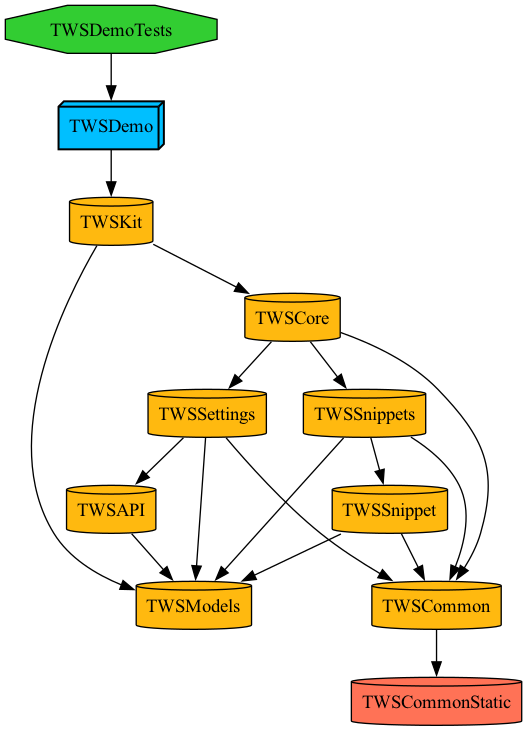
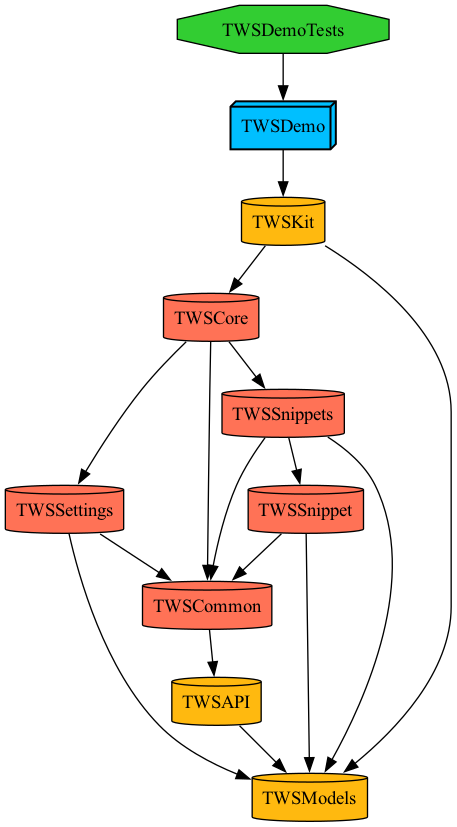
Cache snippets information (without httml content for now); Fixed an issue with Tuis (switchet to static dependncies for now); Updated linter;

diff --git a/Project.swift b/Project.swift
@@ -81,7 +81,7 @@ let project = Project(
         .target(
             name: "TWSCore",
             destinations: .iOS,
-            product: .framework,
+            product: .staticFramework,
             bundleId: "com.inova.twscore",
             deploymentTargets: .iOS(deploymentTarget()),
             sources: ["TWSCore/Sources/**"],
@@ -101,7 +101,7 @@ let project = Project(
         .target(
             name: "TWSSnippets",
             destinations: .iOS,
-            product: .framework,
+            product: .staticFramework,
             bundleId: "com.inova.twssnippets",
             deploymentTargets: .iOS(deploymentTarget()),
             sources: ["TWSSnippets/Sources/**"],
@@ -121,7 +121,7 @@ let project = Project(
         .target(
             name: "TWSSnippet",
             destinations: .iOS,
-            product: .framework,
+            product: .staticFramework,
             bundleId: "com.inova.twssnippet",
             deploymentTargets: .iOS(deploymentTarget()),
             sources: ["TWSSnippet/Sources/**"],
@@ -140,14 +140,13 @@ let project = Project(
         .target(
             name: "TWSSettings",
             destinations: .iOS,
-            product: .framework,
+            product: .staticFramework,
             bundleId: "com.inova.twssettings",
             deploymentTargets: .iOS(deploymentTarget()),
             sources: ["TWSSettings/Sources/**"],
             dependencies: [
                 .target(name: "TWSCommon"),
-                .target(name: "TWSModels"),
-                .target(name: "TWSAPI")
+                .target(name: "TWSModels")
             ],
             settings: .settings(
                 configurations: [
@@ -195,30 +194,13 @@ let project = Project(
         .target(
             name: "TWSCommon",
             destinations: .iOS,
-            product: .framework,
+            product: .staticFramework,
             bundleId: "com.inova.twscommon",
             deploymentTargets: .iOS(deploymentTarget()),
             sources: ["TWSCommon/Sources/**"],
             dependencies: [
-                .target(name: "TWSCommonStatic")
-            ],
-            settings: .settings(
-                configurations: [
-                    .debug(name: "Debug"),
-                    .release(name: "Staging"),
-                    .release(name: "Release")
-                ]
-            )
-        ),
-        .target(
-            name: "TWSCommonStatic",
-            destinations: .iOS,
-            product: .staticFramework,
-            bundleId: "com.inova.twscommonstatic",
-            deploymentTargets: .iOS(deploymentTarget()),
-            sources: ["TWSCommonStatic/Sources/**"],
-            dependencies: [
-                .external(name: "ComposableArchitecture")
+                .external(name: "ComposableArchitecture"),
+                .target(name: "TWSAPI")
             ],
             settings: .settings(
                 configurations: [

diff --git a/TWSKit/Sources/TWSFactory.swift b/TWSKit/Sources/TWSFactory.swift
@@ -11,17 +11,23 @@ import TWSModels
 @_implementationOnly import TWSCore
 @_implementationOnly import TWSSettings
 @_implementationOnly import TWSSnippets
+@_implementationOnly import TWSCommon
 @_implementationOnly import ComposableArchitecture
 
 public class TWSFactory {
 
     public class func new() -> TWSManager {
         let stream = AsyncStream<[TWSSnippet]>.makeStream()
+        let state = TWSCoreFeature.State(
+            settings: .init(),
+            snippets: .init()
+        )
+
+        let storage = state.snippets.snippets.map(\.snippet)
+        print("-> (\(storage.count)) items loaded from disk.", Date())
+
         let store = Store(
-            initialState: TWSCoreFeature.State(
-                settings: .init(),
-                snippets: .init(snippets: [])
-            ),
+            initialState: state,
             reducer: {
                 TWSCoreFeature()
                     .onChange(of: \.snippets.snippets) { _, newValue in
@@ -32,6 +38,8 @@ public class TWSFactory {
                     }
             }
         )
+
+        stream.continuation.yield(storage)
 
         return TWSManager(store: store, stream: stream.stream)
     }

diff --git a/TWSSnippets/Sources/Shared/SharedSnippets.swift b/TWSSnippets/Sources/Shared/SharedSnippets.swift
@@ -1,0 +1,28 @@
+//
+//  SharedSnippets.swift
+//  TWSDemo
+//
+//  Created by Miha Hozjan on 28. 05. 24.
+//  Copyright © 2024 Inova IT, d.o.o. All rights reserved.
+//
+
+import Foundation
+import TWSCommon
+import TWSModels
+import TWSSnippet
+import ComposableArchitecture
+
+extension URL {
+    static let snippets = URL.documentsDirectory.appending(component: "snippets.json")
+}
+
+extension PersistenceReaderKey where Self == 
+PersistenceKeyDefault<
+FileStorageKey<IdentifiedArrayOf<TWSSnippetFeature.State>>
+>
+{
+
+    static var snippets: Self {
+        PersistenceKeyDefault(.fileStorage(.snippets), [])
+    }
+}

diff --git a/TWSDemo/Sources/Snippets/SnippetsView.swift b/TWSDemo/Sources/Snippets/SnippetsView.swift
@@ -20,8 +20,12 @@ struct SnippetsView: View {
             ScrollView {
                 VStack {
                     ForEach(snippets, id: \.target) { snippet in
-                        TWSView(snippet: snippet)
-                            .border(Color.black)
+                        VStack(alignment: .leading) {
+                            Text("\(snippet.id.uuidString.suffix(4)) @ \(snippet.target.path)")
+                            TWSView(snippet: snippet)
+                                .border(Color.black)
+                        }
+
                     }
                 }
                 .padding()

diff --git a/TWSSnippets/Sources/TWSSnippetsFeature.swift b/TWSSnippets/Sources/TWSSnippetsFeature.swift
@@ -5,16 +5,14 @@ import TWSCommon
 import TWSModels
 
 @Reducer
-public struct TWSSnippetsFeature { 
+public struct TWSSnippetsFeature {
 
     @ObservableState
     public struct State {
 
-        public var snippets: IdentifiedArrayOf<TWSSnippetFeature.State>
+        @Shared(.snippets) public internal(set) var snippets
 
-        public init(snippets: IdentifiedArrayOf<TWSSnippetFeature.State>) {
-            self.snippets = snippets
-        }
+        public init() { }
     }
 
     public enum Action {

diff --git a/Tuist/Package.swift b/Tuist/Package.swift
@@ -6,8 +6,8 @@ import PackageDescription
     import ProjectDescriptionHelpers
 
     let packageSettings = PackageSettings(
-        productTypes: [
-            "ComposableArchitecture": .framework
+        productTypes: [:
+//            "ComposableArchitecture": .framework
         ],
         baseSettings: .settings(
             configurations: [

diff --git a/TWSKit/Sources/TWSKit.swift b/TWSKit/Sources/TWSKit.swift
@@ -4,6 +4,9 @@ import TWSModels
 @_implementationOnly import TWSCore
 @_implementationOnly import ComposableArchitecture
 
+// TODO: Switch back to dynamic frameworks
+// https://github.com/tuist/tuist/issues/6339
+
 public class TWSManager {
 
     private let store: StoreOf<TWSCoreFeature>

diff --git a/TWSSettings/Sources/TWSSettingsFeature.swift b/TWSSettings/Sources/TWSSettingsFeature.swift
@@ -5,8 +5,9 @@ import ComposableArchitecture
 public struct TWSSettingsFeature {
 
     @ObservableState
-    public struct State { 
-        public init() { }
+    public struct State {
+        public init() {
+        }
     }
 
     public enum Action { }

diff --git a/TWSSnippet/Sources/TWSSnippetFeature.swift b/TWSSnippet/Sources/TWSSnippetFeature.swift
@@ -6,7 +6,7 @@ import TWSModels
 public struct TWSSnippetFeature {
 
     @ObservableState
-    public struct State: Equatable {
+    public struct State: Equatable, Codable {
 
         public let snippet: TWSSnippet
 

diff --git a/TWSSnippet/Sources/TWSSnippetFeatureState+Identifiable.swift b/TWSSnippet/Sources/TWSSnippetFeatureState+Identifiable.swift
@@ -10,7 +10,6 @@ import Foundation
 import TWSModels
 
 extension TWSSnippetFeature.State: Identifiable {
-    
     public var id: TWSSnippet.ID {
         return snippet.id
     }

diff --git a/TWSCommon/Sources/Dependencies/APIDependency.swift b/TWSCommon/Sources/Dependencies/APIDependency.swift
@@ -12,7 +12,6 @@ import TWSAPI
 import ComposableArchitecture
 
 public struct APIDependency {
-    
     public var getSnippets: @Sendable () async throws -> [TWSSnippet]
 }
 

diff --git a/TWSDemoTests/Sources/TWSDemoTests.swift b/TWSDemoTests/Sources/TWSDemoTests.swift
@@ -28,3 +28,6 @@ final class TWSDemoTests: XCTestCase {
         // Check the results with assertions afterwards.
     }
 }
+
+// TODO: tests
+// TODO: Remove prints
